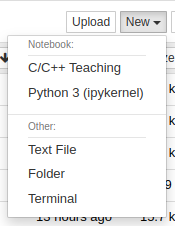
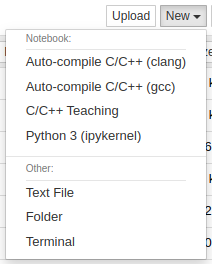
Update README

Changed region(s): [[0.0, 0.0, 1.0, 0.9912]]

diff --git a/README.md b/README.md
@@ -1,11 +1,36 @@
-## About
+# c-kernel
 
-An IPython kernel for teaching and learning C/C++ in a Jupyter notebook, providing C/C++ syntax highlighting and a little more magic.
+IPython kernels for teaching and learning C/C++ in a Jupyter notebook, providing
+C/C++ syntax highlighting, automatic compilation and a little more magic.
 
-This kernel extents the default IPython kernel to provide C/C++ syntax highlighting and the ability to execute shell commands embedded in comments when the cell contents are saved using the `%%file` cell magic:
+#### `AsyncKernel`
+
+This kernel (an extension of the default IPython kernel) provides the ability to execute shell commands embedded in comments when the cell contents are saved using the `%%file`
+cell magic:
 
 <p align="center">
 <img src="img/demo-1.png">
+</p>
+
+#### `AutoCompileKernel`
+
+Automatically compile cells into object files or executables using the name
+given on the cell's first line:
+
+<p align="center">
+<img src="img/demo-3.png">
+</p>
+
+Specify options in comments using `//%`:
+
+<p align="center">
+<img src="img/demo-4.png">
+</p>
+
+Compose simple multi-file projects in a single notebook:
+
+<p align="center">
+<img src="img/demo-5.png">
 </p>
 
 ## Installation
@@ -17,18 +42,22 @@ git clone git@github.com:adamtuft/c-kernel.git
 python3 -m pip install ./c-kernel
 ```
 
-Then, install the kernel, giving it a display name of your choice. See `--help` for options:
+Then, install the kernel(s), giving it a name and a display name of your choice.
+For example, to install `AutoCompileKernel` using `clang` and `clang++` as the
+default compilers, run:
 
 ```
-ckernel_install "C/C++ Teaching"
+ckernel_install AutoCompileKernel autocompile-clang "Auto-compile C/C++ (clang)" --user --cc clang --cxx clang++
 ```
 
-The kernel will then be available under the given display name within Jupyter:
+This kernel will then be available with under the name "Auto-compile C/C++ (clang)"
+in Jupyter:
 
 <p align="center">
 <img src="img/demo-2.png">
 </p>
 
+See `ckernel_install --help` for all options.
 
 ## License
 
